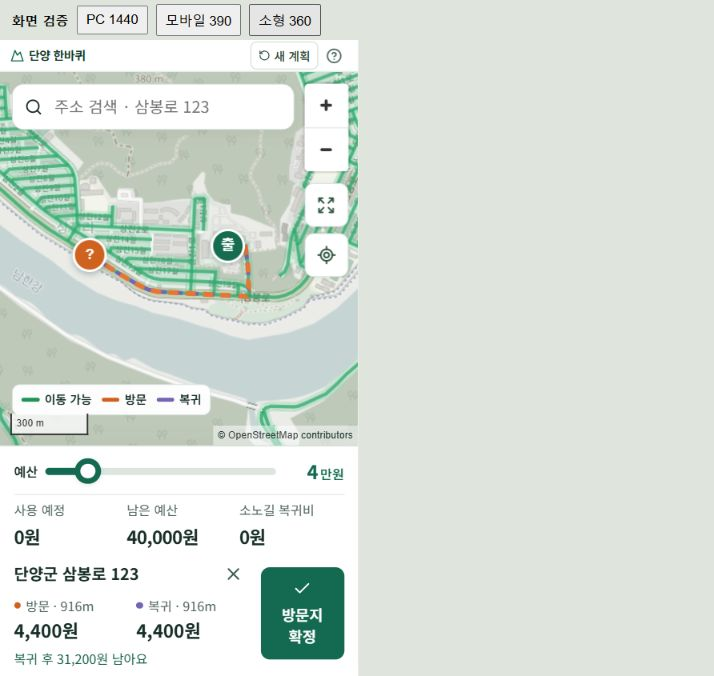
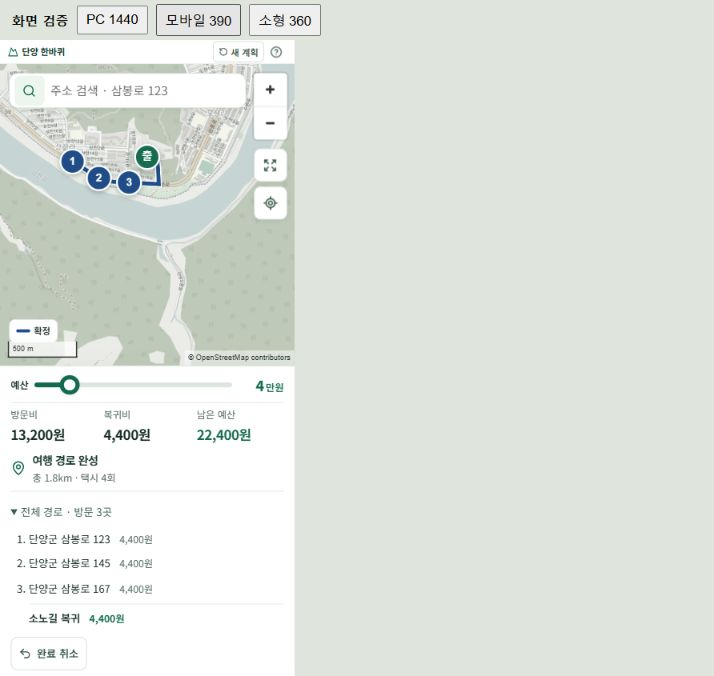
검색기능 업데이트

Changed region(s): [[0.0, 0.0311, 0.5238, 1.0], [0.0, 0.7456, 0.3081, 0.9941]]

diff --git a/src/App.tsx b/src/App.tsx
@@ -17,9 +17,9 @@ export default function App() {
     setCandidate(null);
     setNotice("");
   };
-  const returnCost = analysis?.returnRoute?.fare.total;
-  const canFinish = fresh && !!analysis?.returnRoute &&
-    analysis.returnRoute.fare.total <= analysis.remaining && !!plan?.visits.length;
+  const budget = analysis?.budget;
+  const canFinish = fresh && budget?.remaining != null &&
+    budget.remaining >= 0 && !!plan?.visits.length;
   return (
     <div className="app-shell">
       <header className="app-header">
@@ -51,12 +51,12 @@ export default function App() {
                 <output htmlFor="budget">{plan.budget / 10000}<span>만원</span></output>
               </div>
               <dl className="budget-stats" aria-live="polite" aria-busy={busy}>
-                <div><dt>사용 예정</dt><dd>{fresh && analysis ? money(analysis.spent) : "계산 중"}</dd></div>
-                <div><dt>남은 예산</dt><dd className={analysis && analysis.remaining < 0 ? "negative" : ""}>{fresh && analysis ? money(analysis.remaining) : "계산 중"}</dd></div>
-                <div><dt>소노길 복귀비</dt><dd>{fresh ? returnCost !== undefined ? money(returnCost) : "경로 없음" : "계산 중"}</dd></div>
+                <div><dt>방문비</dt><dd>{fresh && budget ? money(budget.visitCost) : "계산 중"}</dd></div>
+                <div><dt>복귀비</dt><dd>{fresh && budget ? budget.returnCost !== null ? money(budget.returnCost) : "경로 없음" : "계산 중"}</dd></div>
+                <div><dt>남은 예산</dt><dd className={`budget-remaining${budget?.remaining != null && budget.remaining < 0 ? " negative" : ""}`}>{fresh && budget ? budget.remaining !== null ? money(budget.remaining) : "계산 불가" : "계산 중"}</dd></div>
               </dl>
-              {fresh && analysis && returnCost !== undefined && analysis.remaining < returnCost &&
-                <p className="inline-warning" role="alert">복귀까지 {money(returnCost - analysis.remaining)} 부족합니다. 예산을 늘리거나 방문을 취소해 주세요.</p>}
+              {fresh && budget?.remaining != null && budget.remaining < 0 &&
+                <p className="inline-warning" role="alert">복귀까지 {money(-budget.remaining)} 부족합니다. 예산을 늘리거나 방문을 취소해 주세요.</p>}
             </section>
             <section className="decision-section" aria-label="방문지 선택">
               {!plan.finished && candidate ? fresh && analysis?.candidate ?
@@ -66,13 +66,15 @@ export default function App() {
                 <div className={`empty-candidate${plan.finished ? " completed" : ""}`}><MapPin size={24} /><div><strong>{plan.finished ? "여행 경로 완성" : "주소 검색 또는 지도에서 선택"}</strong><p>{plan.finished && fresh && analysis ? `총 ${distance(analysis.totalDistance)} · 택시 ${analysis.rides}회` : "초록 도로는 소노길 복귀 비용까지 확보돼요."}</p></div></div>}
             </section>
             {(plan.visits.length > 0 || plan.finished) && <section className="plan-section" aria-label="경로 관리">
-              {plan.visits.length > 0 && <details className="trip-details"><summary>방문지 {plan.visits.length}곳 보기</summary>
-                <ol>{plan.visits.map((visit, i) => <li key={`${i}-${visit.lng}`}><span>{visit.name}</span><small>{fresh && analysis?.confirmed[i] ? money(analysis.confirmed[i].fare.total) : "계산 중"}</small></li>)}</ol>
+              {plan.visits.length > 0 && <details className="trip-details" key={plan.finished ? "completed" : "planning"} open={plan.finished}><summary>{plan.finished ? `전체 경로 · 방문 ${plan.visits.length}곳` : `방문지 ${plan.visits.length}곳 보기`}</summary>
+                <ol>{plan.visits.map((visit, i) => <li key={`${i}-${visit.lng}`}><span>{visit.name}</span><small>{fresh && analysis?.confirmed[i] ? money(analysis.confirmed[i].fare.total) : "계산 중"}</small></li>)}
+                  {plan.finished && <li className="trip-return"><span>소노길 복귀</span><small>{fresh && budget ? budget.returnCost !== null ? money(budget.returnCost) : "경로 없음" : "계산 중"}</small></li>}
+                </ol>
               </details>}
               <div className="plan-actions">
                 {(plan.visits.length > 0 || plan.finished) && <button className="outline" onClick={() => { setPlan(undoPlan(plan)); setCandidate(null); }}><Undo2 size={17} />{plan.finished ? "완료 취소" : "되돌리기"}</button>}
                 {!plan.finished && plan.visits.length > 0 && <button className="primary" disabled={!canFinish}
-                  onClick={() => { if (analysis && fresh) { setPlan(finishPlan(plan, analysis)); setCandidate(null); } }}><Flag size={17} />소노길로 복귀</button>}
+                  onClick={() => { if (analysis && fresh) { setPlan(finishPlan(plan, analysis)); setCandidate(null); } }}><Flag size={17} />완료</button>}
               </div>
             </section>}
           </div>}
@@ -81,7 +83,8 @@ export default function App() {
       <dialog ref={info} className="info-modal" onClick={event => { if (event.target === info.current) info.current.close(); }}>
         <div className="modal-content">
           <div className="section-title"><h2>이용 안내</h2><button className="icon-button" aria-label="이용 안내 닫기" onClick={() => info.current?.close()}><X size={22} /></button></div>
-          <p>소노길에서 출발해 같은 곳으로 돌아오는 여행입니다. 예산을 고른 뒤 지도에서 방문지를 누르고, 요금을 확인해 확정하세요. 확정할 때 해당 탑승 요금만 차감됩니다.</p>
+          <p>소노길에서 출발해 같은 곳으로 돌아오는 여행입니다. 남은 예산은 확정한 방문 구간의 누적 요금과 마지막 방문지에서 소노길까지의 복귀비를 모두 반영한 금액입니다. 방문지를 확정할 때마다 복귀비를 새로 계산합니다.</p>
+          <p>후보를 조회하는 동안에는 확정 후 남은 예산을 미리 보여줍니다. 완료를 누르면 복귀를 포함한 전체 경로가 확정되며 잔액이 추가로 줄어들지 않습니다.</p>
           <p>예산은 2만~16만 원, 2만 원 간격입니다. 테스트 버전에서는 출발·복귀 지점, 여유율(10%), 호출료(미포함)가 고정되며 경로 내보내기를 제공하지 않습니다.</p>
           <p>소노길의 도로상 대표 위치를 사용합니다. 특정 시설의 출입구를 뜻하지 않습니다.</p>
           <h3>도로명주소 검색</h3>

diff --git a/tests/planner.test.ts b/tests/planner.test.ts
@@ -35,8 +35,9 @@ describe("planning state", () => {
     expect(p.visits).toHaveLength(0);
     expect(analysis.spent).toBe(0);
     expect(analysis.remaining).toBe(40000);
+    expect(analysis.budget).toEqual({ visitCost: 0, returnCost: 0, remaining: 40000 });
   });
-  it("charges only the outgoing ride on confirmation and restores it on undo", () => {
+  it("reserves the return in the displayed balance while keeping routing funds separate", () => {
     const p = plan(),
       r = router(),
       before = analyzePlan(r, p, place(1000), fare);
@@ -45,9 +46,57 @@ describe("planning state", () => {
     expect(after.spent).toBe(4000);
     expect(after.remaining).toBe(36000);
     expect(after.returnRoute!.fare.total).toBe(4000);
+    expect(after.budget).toEqual({ visitCost: 4000, returnCost: 4000, remaining: 32000 });
+    expect(after.budget.remaining).toBe(before.candidate!.afterReturn);
     const undone = analyzePlan(r, undoPlan(confirmed), null, fare);
     expect(undone.spent).toBe(0);
     expect(undone.current.lng).toBeCloseTo(p.start.lng, 7);
+    expect(undone.budget).toEqual({ visitCost: 0, returnCost: 0, remaining: 40000 });
+  });
+  it("replaces the previous return reservation when another visit is confirmed", () => {
+    const r = router();
+    const first = confirmCandidate(plan(60000), analyzePlan(r, plan(60000), place(1000), fare));
+    const before = analyzePlan(r, first, null, fare);
+    const preview = analyzePlan(r, first, place(6000), fare);
+    expect(preview.budget).toEqual(before.budget);
+    const next = confirmCandidate(first, preview);
+    const after = analyzePlan(r, next, null, fare);
+    expect(after.budget.returnCost).not.toBe(before.budget.returnCost);
+    expect(after.budget.visitCost).toBe(before.budget.visitCost + preview.candidate!.outward!.fare.total);
+    expect(after.budget.returnCost).toBe(preview.candidate!.homeward!.fare.total);
+    expect(after.budget.remaining).toBe(preview.candidate!.afterReturn);
+    expect(analyzePlan(r, undoPlan(next), null, fare).budget).toEqual(before.budget);
+  });
+  it("can spend reserved return funds on a visit back to the origin without charging twice", () => {
+    const r = router(), p = plan(20000);
+    const first = confirmCandidate(p, analyzePlan(r, p, place(6000), fare));
+    const preview = analyzePlan(r, first, p.start, fare);
+    expect(preview.candidate!.outward!.fare.total).toBeGreaterThan(preview.budget.remaining!);
+    expect(preview.candidate!.affordable).toBe(true);
+    const next = confirmCandidate(first, preview);
+    expect(next.visits).toHaveLength(2);
+    const after = analyzePlan(r, next, null, fare);
+    expect(after.budget.returnCost).toBe(0);
+    expect(after.budget.remaining).toBe(preview.candidate!.afterReturn);
+    expect(after.budget.remaining).toBe(preview.budget.remaining);
+  });
+  it("shows a deficit and blocks completion when a smaller budget cannot cover the return", () => {
+    const r = router(), p = plan(60000);
+    const confirmed = confirmCandidate(p, analyzePlan(r, p, place(14000), fare));
+    const reduced = { ...confirmed, budget: 20000 };
+    const analysis = analyzePlan(r, reduced, null, fare);
+    expect(analysis.remaining).toBeGreaterThanOrEqual(0);
+    expect(analysis.budget.remaining).toBeLessThan(0);
+    expect(finishPlan(reduced, analysis)).toBe(reduced);
+  });
+  it("does not present a missing return route as free or allow completion", () => {
+    const r = new Router(graphOf([[0, 0], [10000, 0]], [[0, 1, 1]]));
+    const restored = { ...plan(), visits: [place(2000)] };
+    const analysis = analyzePlan(r, restored, null, fare);
+    expect(analysis.budget.visitCost).toBeGreaterThan(0);
+    expect(analysis.budget.returnCost).toBeNull();
+    expect(analysis.budget.remaining).toBeNull();
+    expect(finishPlan(restored, analysis)).toBe(restored);
   });
   it("blocks over-budget visits but still returns both routes", () => {
     const p = plan(20000),
@@ -86,13 +135,21 @@ describe("planning state", () => {
       for (const x of [500, 1000, 1500])
         p = confirmCandidate(p, analyzePlan(r, p, place(x), fare));
       expect(p.visits).toHaveLength(3);
-      p = finishPlan(p, analyzePlan(r, p, null, fare));
+      const beforeFinish = analyzePlan(r, p, null, fare);
+      p = finishPlan(p, beforeFinish);
       const finished = analyzePlan(r, p, null, fare);
       expect(p.finished).toBe(true);
       expect(finished.rides).toBe(4);
       expect(finished.remaining).toBeGreaterThanOrEqual(0);
+      expect(finished.budget).toEqual(beforeFinish.budget);
+      expect(finished.confirmed[p.visits.length].fare.total).toBe(finished.budget.returnCost);
+      expect(finished.spent).toBe(finished.budget.visitCost + finished.budget.returnCost!);
+      expect(finished.remaining).toBe(finished.budget.remaining);
       expect(undoPlan(p).finished).toBe(false);
       expect(undoPlan(p).visits).toHaveLength(3);
+      expect(analyzePlan(r, undoPlan(p), null, fare).budget).toEqual(beforeFinish.budget);
+      const restored = parsePlan(JSON.stringify(p), "test")!;
+      expect(analyzePlan(r, restored, null, fare).budget).toEqual(beforeFinish.budget);
     },
   );
   it("allows a distinct end and does not charge a zero-distance final leg", () => {
@@ -107,6 +164,7 @@ describe("planning state", () => {
     );
     expect(result.spent).toBe(4000);
     expect(result.rides).toBe(1);
+    expect(result.budget).toEqual({ visitCost: 4000, returnCost: 0, remaining: 36000 });
   });
   it("restores saved state and rejects incompatible/corrupt plans", () => {
     const p = { ...plan(), visits: [place(500)] };

diff --git a/src/components/AddressSearch.tsx b/src/components/AddressSearch.tsx
@@ -13,8 +13,19 @@ export function AddressSearch({ places, graphVersion, onSelect }: {
   const [retry, setRetry] = useState(0);
   const [open, setOpen] = useState(false);
   const [active, setActive] = useState(-1);
+  const container = useRef<HTMLDivElement>(null);
   const input = useRef<HTMLInputElement>(null);
   const listId = useId();
+  useEffect(() => {
+    const closeOutside = (event: PointerEvent) => {
+      if (event.target instanceof Node && !container.current?.contains(event.target)) {
+        setOpen(false);
+        setActive(-1);
+      }
+    };
+    document.addEventListener('pointerdown', closeOutside, true);
+    return () => document.removeEventListener('pointerdown', closeOutside, true);
+  }, []);
   useEffect(() => {
     let cancelled = false;
     setFailed(false);
@@ -36,10 +47,26 @@ export function AddressSearch({ places, graphVersion, onSelect }: {
     setActive(-1);
     input.current?.blur();
   };
-  return <div className="map-search address-search" onBlur={event => {
-    if (!event.currentTarget.contains(event.relatedTarget)) { setOpen(false); setActive(-1); }
+  const search = (useActive = false) => {
+    if (!query.trim()) { input.current?.focus(); return; }
+    setOpen(true);
+    // Only keyboard navigation may choose a highlighted result among several.
+    if (useActive && active >= 0 && matches[active]) select(matches[active]);
+    else if (matches.length === 1) select(matches[0]);
+    else if (!useActive) {
+      setActive(-1);
+      input.current?.blur();
+    }
+  };
+  return <div ref={container} className="map-search address-search" onBlur={event => {
+    // A touch or keyboard dismissal can blur to null before a result click.
+    // Outside pointer presses close the list separately; Tab still closes it.
+    if (event.relatedTarget && !event.currentTarget.contains(event.relatedTarget)) {
+      setOpen(false); setActive(-1);
+    }
   }}>
-    <Search size={18} aria-hidden="true" />
+    <button type="button" className="search-submit" aria-label="주소 검색" title="검색"
+      onClick={() => search()}><Search size={18} aria-hidden="true" /></button>
     <input ref={input} aria-label="도로명주소 검색" placeholder="주소 검색 · 삼봉로 123"
       role="combobox" aria-autocomplete="list" aria-expanded={expanded}
       aria-controls={expanded ? listId : undefined}
@@ -59,10 +86,7 @@ export function AddressSearch({ places, graphVersion, onSelect }: {
           document.getElementById(`${listId}-${next}`)?.scrollIntoView({ block: 'nearest' });
         }
         if (event.key === 'Enter') {
-          event.preventDefault(); setOpen(true);
-          // Multiple matching segments require an explicit choice.
-          if (active >= 0 && matches[active]) select(matches[active]);
-          else if (matches.length === 1) select(matches[0]);
+          event.preventDefault(); search(true);
         }
       }} />
     {query && <button aria-label="검색어 지우기" onClick={() => {

diff --git a/src/styles.css b/src/styles.css
@@ -8,6 +8,10 @@
 @media(prefers-reduced-motion:reduce){*,*::before,*::after{scroll-behavior:auto!important;animation-duration:.01ms!important;transition-duration:.01ms!important}}
 .map-panel{container-type:size}.address-search>svg{flex-shrink:0}.address-search .search-results{max-height:min(300px,calc(100cqh - 82px));overscroll-behavior:contain}.address-search .search-results small{display:block;color:#52675e;font-size:13px;line-height:1.5;margin-top:4px;font-weight:400}.address-search .search-results span{overflow-wrap:anywhere}.address-search .search-results button[aria-selected=true]{background:#eaf4ee;box-shadow:inset 3px 0 #146a50}.address-search .search-hint{font-size:13px;line-height:1.6;color:#52675e;background:#f4f8f5;padding:10px 12px;border-bottom:1px solid #e3ebe6}.address-search .search-retry{color:#146a50;font-weight:600}.address-estimate-note{font-size:13px;color:#52675e;line-height:1.5;margin:0 0 8px}
 .app-header{height:36px;padding:0 16px}
+.address-search{gap:6px;padding:0 6px}
+.address-search>.search-submit{width:40px;height:40px;flex-shrink:0;border-radius:8px;background:#edf5ef;color:var(--green)}
+.address-search>.search-submit:hover{background:#dfeee4}
+.address-search>button{flex-shrink:0}
 .brand{gap:6px}
 .brand h1{font-size:14px;letter-spacing:-.3px}
 .brand>svg{width:16px;height:16px}
@@ -22,6 +26,9 @@
 .budget-heading output{font-size:22px;min-width:3.2em;text-align:right;white-space:nowrap}
 .budget-heading output span{font-size:14px;margin-left:2px}
 .candidate-info{min-width:0}
+.budget-stats .budget-remaining:not(.negative){color:var(--green)}
+.trip-details .trip-return{list-style:none;border-top:1px solid var(--border);margin-top:4px;padding-top:8px;font-weight:600}
+.trip-details .trip-return small{color:var(--green);font-weight:700;white-space:nowrap}
 @media(min-width:1001px){.dashboard-grid:not(:has(.plan-section)){grid-template-columns:minmax(290px,1fr) minmax(280px,1fr)}}
 @media(max-width:600px){
   .app-header{height:32px;padding:0 10px}

diff --git a/src/lib/planner.ts b/src/lib/planner.ts
@@ -48,6 +48,14 @@ export function analyzePlan(
     current = visit;
   }
   let returnRoute = router.route(current, end, fare, plan.options);
+  const visitCost = confirmed.reduce((sum, route) => sum + route.fare.total, 0);
+  const returnCost = returnRoute?.fare.total ?? null;
+  // Keep the same display totals before/after finishing; reserve only this return.
+  const budget = {
+    visitCost,
+    returnCost,
+    remaining: returnCost === null ? null : plan.budget - visitCost - returnCost,
+  };
   if (plan.finished) {
     if (!returnRoute)
       throw new Error("최종 도착지까지 연결된 경로가 없습니다.");
@@ -113,6 +121,7 @@ export function analyzePlan(
     visits,
     confirmed,
     returnRoute,
+    budget,
     spent,
     remaining,
     totalDistance: confirmed.reduce((sum, route) => sum + route.distance, 0),
@@ -133,7 +142,7 @@ export function confirmCandidate(plan: Plan, analysis: Analysis): Plan {
     candidate.issue
   )
     return plan;
-  // Persist the exact snapped position; do not charge the displayed return reserve yet.
+  // Persist the exact stop; re-analysis replaces the current return reservation.
   return {
     ...plan,
     visits: [
@@ -155,8 +164,8 @@ export function undoPlan(plan: Plan): Plan {
 export function finishPlan(plan: Plan, analysis: Analysis): Plan {
   if (
     plan.finished ||
-    !analysis.returnRoute ||
-    analysis.returnRoute.fare.total > analysis.remaining
+    analysis.budget.remaining === null ||
+    analysis.budget.remaining < 0
   )
     return plan;
   return { ...plan, finished: true };

diff --git a/src/components/CandidatePanel.tsx b/src/components/CandidatePanel.tsx
@@ -17,7 +17,7 @@ export function CandidatePanel({ result, disabled, onConfirm, onClear }: {
         <div><span><i className="route-dot orange" />방문 · {distance(result.outward!.distance)}</span><strong>{money(result.outward!.fare.total)}</strong></div>
         <div><span><i className="route-dot purple" />복귀 · {distance(result.homeward!.distance)}</span><strong>{money(result.homeward!.fare.total)}</strong></div>
       </div>
-      <p className={result.affordable ? "candidate-balance" : "inline-warning"}>{result.affordable ? `복귀 후 ${money(result.afterReturn!)} 남아요` : `복귀까지 ${money(-result.afterReturn!)} 부족해요`}</p>
+      <p className={result.affordable ? "candidate-balance" : "inline-warning"}>{result.affordable ? `확정 후 남은 예산 ${money(result.afterReturn!)}` : `확정 시 ${money(-result.afterReturn!)} 부족해요`}</p>
     </>}
     {result.snap && result.snap.distanceToRoad > 50 && <p className="inline-warning">선택 지점에서 약 {Math.round(result.snap.distanceToRoad)}m 떨어진 도로 기준입니다. 도보 접근은 확인되지 않았습니다.</p>}
     </div>

diff --git a/src/types/index.ts b/src/types/index.ts
@@ -92,6 +92,9 @@ export interface Analysis {
   visits: Snap[];
   confirmed: Route[];
   returnRoute: Route | null;
+  /** Displayed budget always includes one return from the final confirmed visit. */
+  budget: { visitCost: number; returnCost: number | null; remaining: number | null };
+  /** Completed legs only; routing must not subtract the return reservation twice. */
   spent: number;
   remaining: number;
   totalDistance: number;

diff --git a/docs/VALIDATION.md b/docs/VALIDATION.md
@@ -1,10 +1,10 @@
 # 검증 기록
 
-검증일: 2026-11-07. 도로망 보정·하단 대시보드·기초구간 주소 검색 적용 버전입니다.
+검증일: 2026-11-07. 도로망 보정·하단 대시보드·기초구간 주소 검색·복귀비 포함 잔액 표시 적용 버전입니다.
 
 ## 자동 검사
 
-- Vitest: **6개 파일, 46개 테스트 통과**.
+- Vitest: **6개 파일, 50개 테스트 통과**.
 - Python 도로 연결 보정: **5개 테스트 통과**.
 - TypeScript 타입 검사, Vite 배포 빌드 통과.
 - GitHub Pages 형태의 하위 경로 검사 통과: HTML, JS, CSS, Worker, JSON, gzip 데이터 응답·압축 해제 및 없는 파일의 404 확인.
@@ -17,6 +17,7 @@
 | 고정 조건 | 출발·복귀 소노길, 저장값의 다른 위치·여유율·호출료·잘못된 예산 거절 |
 | 예산 | 2·4·6·8·10·12·14·16만원에서 초록 도로 내부 표본의 방문+복귀 실제 계산값이 예산 이내인지 대조 |
 | 기존 계산 | 기본요금·거리요금 경계, 반복 탑승, 경로 우회, 일방통행 시나리오, 선 중간 이동, 분리 성분, 후보 조회 상태 불변, 확정·취소·완료 |
+| 복귀비 포함 잔액 | 복귀비 예약의 교체, 후보 예상 잔액과 확정 후 잔액 일치, 완료·완료 취소·저장 복원 금액 불변, 복귀비 중복 차감 방지, 예산 부족·복귀 경로 없음 처리 |
 | 주소 검색 | 행정구역 접두어·공백·전각 숫자, 숫자가 든 도로명, 본번·부번 정확 매칭, 없는 번호 거절, 중복 번호의 복수 후보 |
 | 주소와 경로 연결 | 다른 그래프 버전 거절, 동일 원본 도로 제한, 가까운 다른 도로로 잘못 연결하지 않음, 주소명·추정 정보 확정/복원 |
 
@@ -31,6 +32,25 @@ npm test
 실제 SHP는 여러 분리 선형을 한 객체에 담은 MultiLineString을 포함합니다. 특정 접촉이 보정됐다는 이유로 같은 원본 행의 모든 부분을 연결하지 않습니다.
 
 ## 브라우저 검사
+
+### 복귀비 포함 잔액과 계획 완료 (2026-11-07)
+
+- 배포 빌드의 `/danyang-taxi/`에서 모바일 360×640·390×844 및 PC 1440×900 화면을 확인했습니다. 대시보드는 `방문비 / 복귀비 / 남은 예산` 순서로 유지됩니다.
+- 4만원에서 `삼봉로 123` 조회 중 대시보드는 `0 / 0 / 40,000원`, 후보는 `확정 후 남은 예산 31,200원`을 표시합니다. 확정 직후 대시보드는 `4,400 / 4,400 / 31,200원`입니다.
+- `삼봉로 145 → 167 → 189`를 추가했습니다. 네 방문 확정 후 `17,600 / 4,400 / 18,000원`이 표시되며, 완료·새로고침·완료 취소 후에도 같은 금액입니다. 전체 경로는 완료 시 자동으로 펼쳐지고, 방문 4곳과 별도로 마지막에 `소노길 복귀 4,400원`을 표시합니다. 완료 시 총 1.8km·택시 5회입니다.
+- 세 방문 상태의 예산을 2만원으로 줄이면 잔액 2,400원, 다음 후보는 2,000원 부족으로 확정이 차단됩니다. 네 방문 확정 후 2만원으로 줄이면 잔액 -2,000원 및 부족 안내, 완료 버튼 비활성화를 확인했습니다.
+- 완료 취소 후 마지막 방문을 되돌리면 `13,200 / 4,400 / 22,400원`으로 복원됩니다. 다시 완료하면 방문 3곳·복귀 1구간·택시 4회가 표시됩니다.
+- 작은 화면에서는 하단 패널만 스크롤되며 지도 영역을 유지합니다. 새로고침 중 외부 배경지도 오류 안내가 한 번 표시됐으나 금액과 경로는 정상 복원됐고, 현재 계획 위치로 이동한 뒤 지도 표시를 확인했습니다.
+- 회귀 테스트 50개와 타입 검사·배포 빌드·Pages 하위 경로 검사를 통과했습니다. 실제 휴대폰 하드웨어 검사나 GitHub 배포는 수행하지 않았습니다.
+
+### 주소 검색 버튼과 포커스 처리 (2026-11-07)
+
+- 기존 돋보기를 검색 버튼으로 변경했습니다. 검색창 높이는 46px로 유지하고 내부 여백만 조정했습니다.
+- 배포 빌드의 `/danyang-taxi/` 주소에서 360×640, 390×844 화면으로 검사했습니다. `삼봉로 123` 입력 후 엔터 없이 돋보기 클릭으로 편도·복귀 각각 916m / 4,400원 표시, `삼봉로 145`의 결과 항목 직접 클릭을 확인했습니다.
+- `용부원2길 30-2`는 검색 버튼을 눌러도 두 후보를 유지합니다. 입력창에서 결과 안내문으로 포커스를 해제해도 목록이 남고, 두 번째 후보를 선택할 수 있음을 확인했습니다. `길` 검색의 8개 결과에서 목록 스크롤도 확인했습니다.
+- 검색창 바깥 클릭과 Tab으로 영역을 벗어날 때 목록 닫기를 확인했습니다. `삼봉로 999999`는 결과 없음 안내를 유지하며 임의 위치를 선택하지 않습니다.
+- PC 1440×900에서 복수 결과의 Enter 자동 선택 방지와 방향키 → Enter 선택을 확인했습니다.
+- 기존 테스트 46개, TypeScript 검사, Vite 빌드, GitHub Pages 하위 경로 검사를 통과했습니다. 이 검사는 인앱 브라우저의 화면 크기 및 포커스 조작 검사이며, 실제 휴대폰 키보드·터치 하드웨어 검사는 아닙니다.
 
 ### 모바일 공간 조정
 

diff --git a/README.md b/README.md
@@ -40,8 +40,10 @@ npm run preview
 1. 소노길의 도로상 대표 위치에서 출발하고 같은 곳으로 복귀합니다. 특정 시설 정문이 아니며 위치 변경은 제공하지 않습니다.
 2. 슬라이더를 드래그해 **20,000~160,000원, 20,000원 간격**으로 선택합니다. 기본값은 40,000원입니다. 키보드 방향키도 지원합니다.
 3. 지도를 누르거나 `삼봉로 123`, `상선암길 52-8`처럼 도로명주소로 검색해 방문·복귀 요금을 확인합니다. 주소 검색 결과는 **기초번호가 일치하는 도로 구간의 추정 위치**입니다. 초록 도로는 복귀 비용까지 예산 안에 드는 범위입니다.
-4. **방문지 확정**을 누르면 이번 탑승 요금만 차감됩니다. 후보 조회는 예산을 차감하지 않습니다.
-5. **되돌리기**, **소노길로 복귀**, **완료 취소**, **새 계획**으로 계획을 관리합니다. 방문 목록은 필요할 때 펼칩니다.
+4. **방문지 확정**을 누르면 누적 방문비와 마지막 방문지에서 소노길까지의 복귀비를 반영합니다. 대시보드는 **방문비 → 복귀비 → 남은 예산** 순서이며, 남은 예산은 복귀비까지 제외한 금액입니다. 후보 조회 중에는 대시보드 금액을 유지하고 후보 정보에 **확정 후 남은 예산**을 표시합니다.
+5. **완료**를 누르면 복귀를 포함한 전체 계획이 확정됩니다. 잔액은 완료 전후 동일하며, 펼쳐진 전체 경로 목록의 마지막에 **소노길 복귀와 해당 비용**을 표시합니다. **완료 취소**는 방문지와 잔액을 유지한 채 편집을 재개하고, **되돌리기**는 마지막 방문을 취소합니다.
+
+주소는 입력하는 동안 자동으로 검색됩니다. **돋보기 버튼**을 누르면 결과가 한 개일 때 바로 지도에 표시하고, 여러 개면 목록에서 선택합니다. 결과 항목을 직접 터치해도 됩니다. 검색창 바깥을 누르면 목록이 닫히며, PC에서는 방향키와 Enter로 선택할 수 있습니다.
 
 여유율은 기존 10%, 호출료는 미포함으로 고정했습니다. **경로 내보내기, 운임 설정, 출발·도착지 변경 기능은 화면에서 제거**했습니다. 이전 저장값이 고정 조건과 다르면 새 계획을 시작합니다. 확정 계획은 브라우저에 자동 저장됩니다.
 

diff --git a/docs/ASSUMPTIONS.md b/docs/ASSUMPTIONS.md
@@ -34,6 +34,14 @@ far  = max(0, d - 4000)
 
 여유율은 교통 상황의 시간요금을 계산한 값이 아닙니다. 저속 시간요금, 심야할증, 통행료, 대기·택시 배차 여부는 제외되어 있습니다.
 
+## 잔액과 복귀비 표시
+
+대시보드의 방문비는 확정된 방문 구간들의 누적 예상요금입니다. 복귀비는 마지막 확정 방문지에서 소노길까지의 예상요금이며, **남은 예산 = 설정 예산 − 방문비 − 복귀비**입니다. 다음 방문지를 확정하면 이전 복귀비를 새 복귀비로 바꾸며 누적하지 않습니다. 복귀 경로가 없으면 복귀비와 잔액을 0원으로 표시하지 않고 계산 불가로 안내합니다.
+
+후보 조회는 확정 계획의 잔액을 바꾸지 않습니다. 후보의 `확정 후 남은 예산`은 그 후보를 방문하고 소노길로 돌아오는 비용까지 포함합니다. 완료·완료 취소·새로고침 전후에도 같은 계획의 금액은 같습니다. 완료된 경로 목록에 복귀 구간을 별도 행으로 표시하고 방문지 수에는 포함하지 않습니다.
+
+계산 엔진은 이미 확정한 구간 비용과 다음 후보에서의 복귀비를 구분합니다. 화면에 표시하는 복귀비 차감 잔액을 경로 탐색 예산으로 다시 사용하지 않아 복귀비가 중복 차감되지 않습니다.
+
 ## 공간 데이터의 가정
 
 원본 2D SHP의 실제 필드는 `RN`, `RDS_MAN_NO`, `RN_CD`, `ROA_CLS_SE`, `ROAD_BT`, `ROAD_LT`, `SIG_CD` 등입니다. 방향, 교량/터널, 층위, 접근제한 필드가 없어 원본으로 확인할 수 없는 속성을 생성하지 않았습니다.
